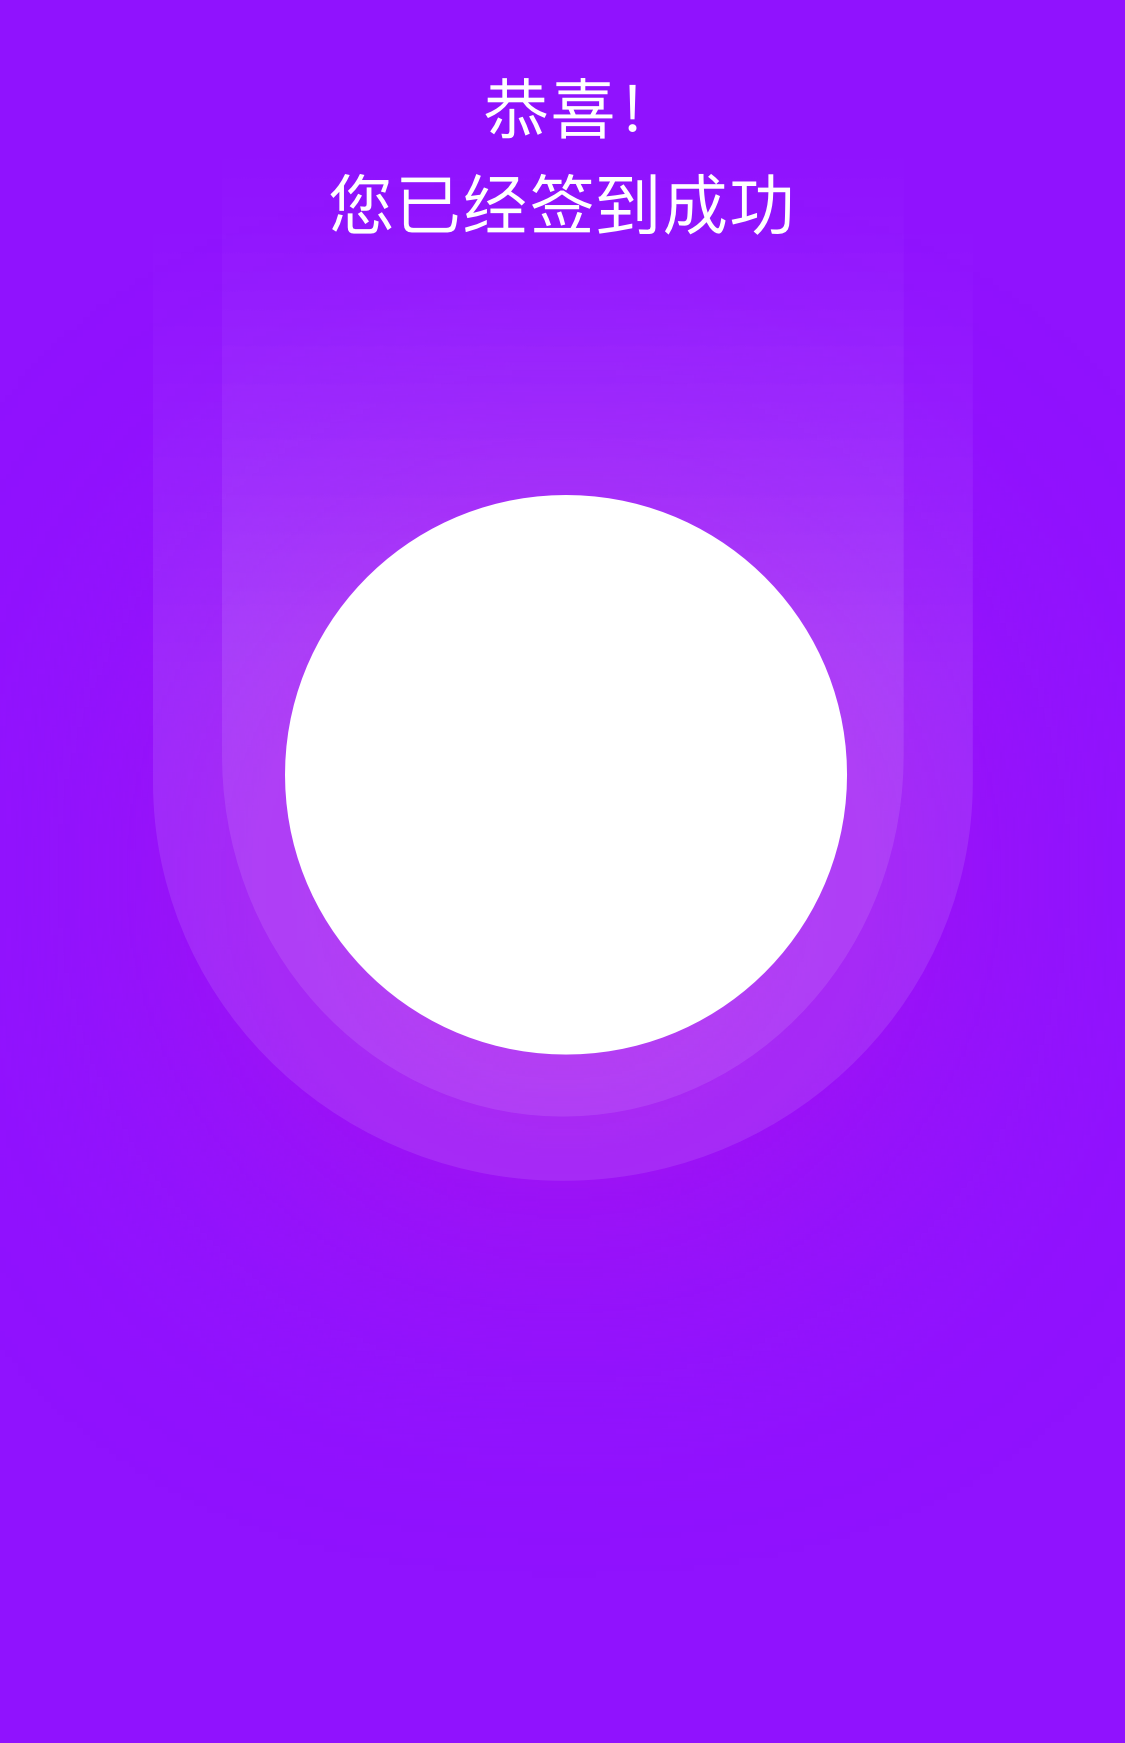
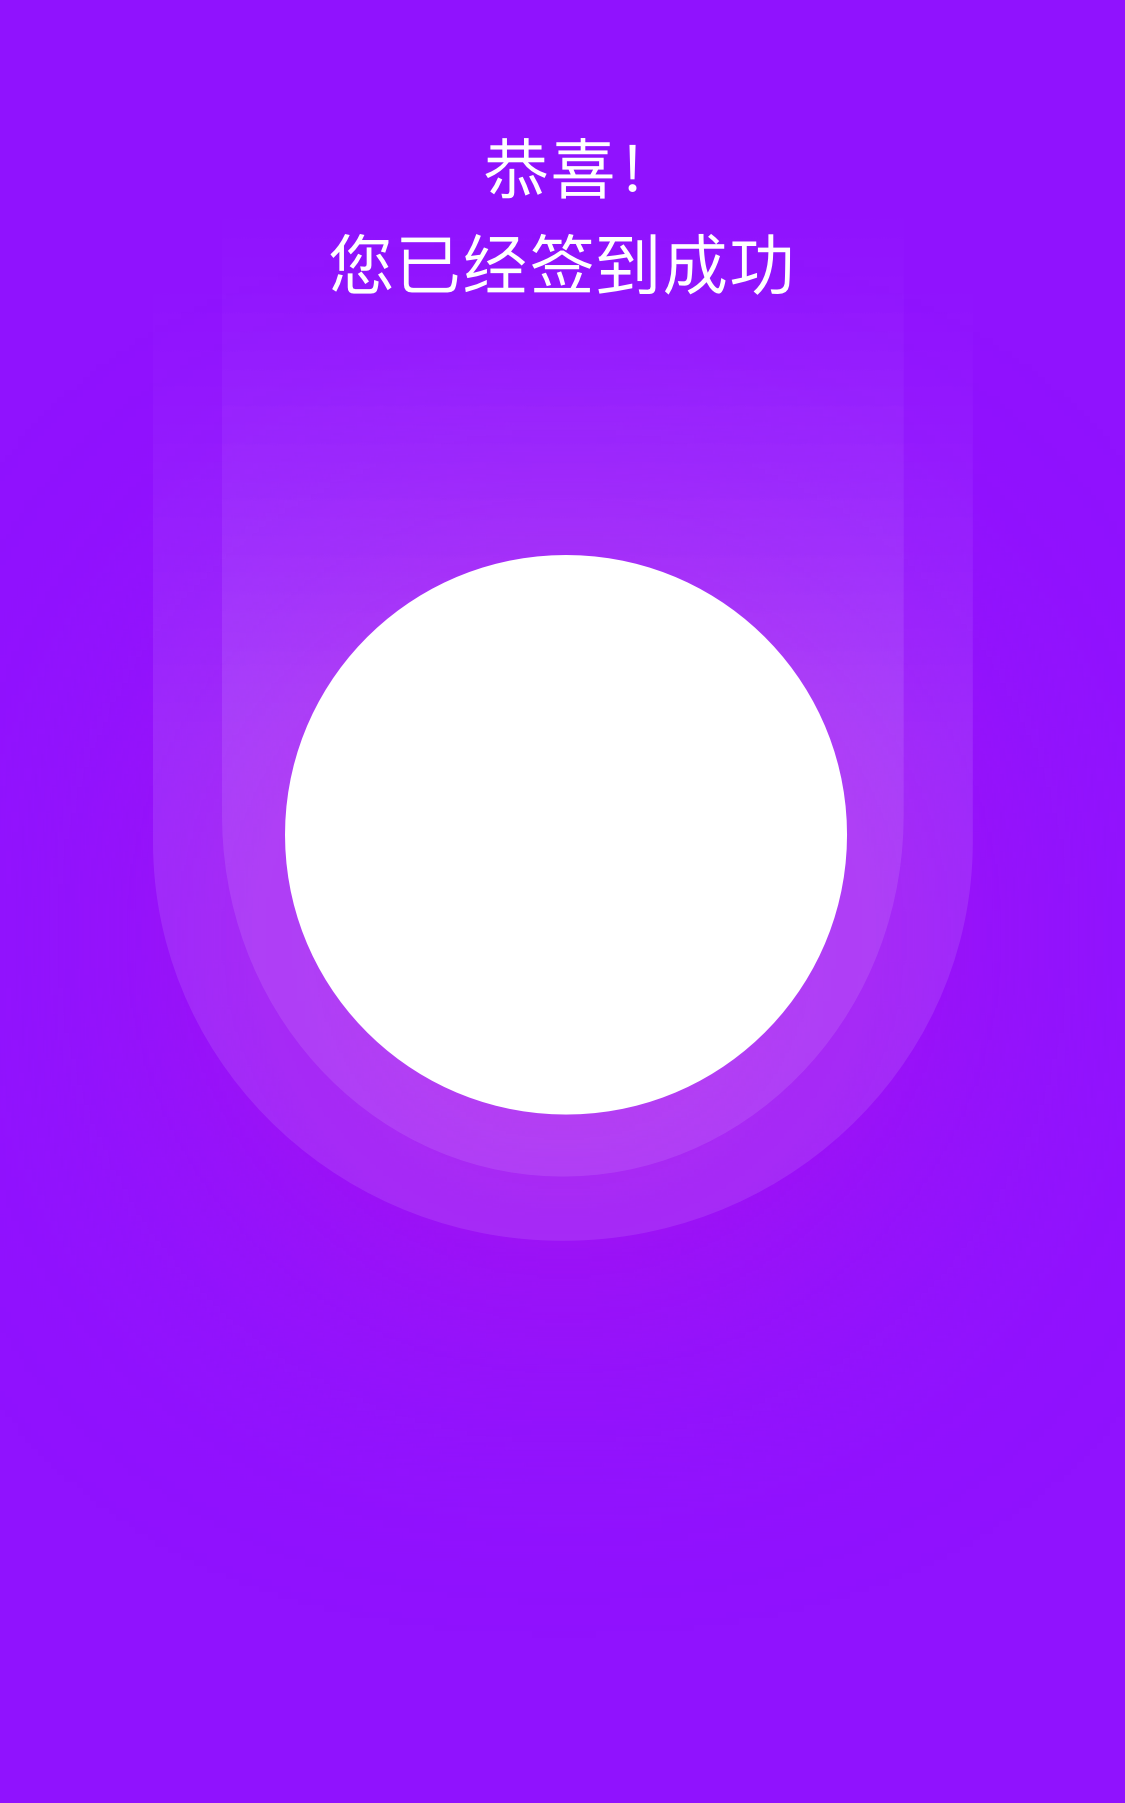
confirm

diff --git a/ion-scanner-v2/src/pages/confirm/confirm.scss b/ion-scanner-v2/src/pages/confirm/confirm.scss
@@ -1,27 +1,29 @@
 .page-confirm {
-    .backImage{
-        background:url(../assets/img/confirm.png) no-repeat;
-      	width:100%;
-		height:581px;  
-    }
-
+    background:#9012fe url(../assets/img/confirm.png) no-repeat 0px 56px;
+    background-size:contain;
+  	width:100%;
 	.timeBox{
-		color:#fff;
+		color:#4a4a4a;
 		width:100%;
 		height:150px;
-		margin:50px auto 0;
+		margin:180px auto 0;
 		text-align:center;
 		font-weight:200;
+		z-index:9;
+		font-family:"微软雅黑";
 		p{
 			margin:0;
+			font-size:10px;
 		}
 		.time{
 			font-size:60px;
+			font-family:"PingFang SC";
+			margin-bottom:4px;
 		}
-		.date{
-			font-size:11px;
-			letter-spacing:1px;
-			font-family:"微软雅黑";
-		}
+	}
+	.completeBtn{
+		background:url(../assets/img/completeButton.png) no-repeat;
+	    background-size:contain;
+	    margin-top:110px;
 	}
 }

diff --git a/ion-scanner-v2/src/pages/scan/scan.scss b/ion-scanner-v2/src/pages/scan/scan.scss
@@ -23,11 +23,13 @@
 		margin:50px auto 0;
 		text-align:center;
 		font-weight:200;
+		z-index:1010;
 		p{
 			margin:0;
 		}
 		.time{
 			font-size:60px;
+			font-family:"PingFang SC";
 		}
 		.date{
 			font-size:11px;
@@ -40,18 +42,20 @@
 	}
 	.camera{
 	   display:block;
-	   margin:0 auto; 
+	   margin:0 auto 30px; 
 	   background:url(../assets/img/camera.png) no-repeat;
 	   background-size:contain;
 	   width:225px ;
-	   height: 225px;
+	   height: 200px;
+	   z-index:1011;
 	}
 	.record{
 		float:right;
 		margin:0 20px 18px 0;
-		// background-size:contain;
 		background:url(../assets/img/record.png) no-repeat;
-	   width: 54px ;
-	   height: 28px;
+	    width: 54px ;
+	    height: 28px;
+	    display:block;
+		background-size:contain;
 	}
 }

diff --git a/ion-scanner-v2/src/pages/confirm/confirm.html b/ion-scanner-v2/src/pages/confirm/confirm.html
@@ -13,14 +13,12 @@
 </ion-header>
 
 
-<ion-content class = "page-confirm">
-  <div class = "backImage">
-<ion-img class="backImage"></ion-img>
-
-  </div>
+<ion-content padding class = "page-confirm">
 	<div class="timeBox">
+    <p>签到时间</p>
 		<p class="time">18:30</p>
-		<p class="date">星期六 2017 .06.18</p>
+    <p>NO 20192</p>
 	</div>
 
+   <button class="completeBtn" ion-button block type="submit" (click)="completeClick()"></button>
 </ion-content>

diff --git a/ion-scanner-v2/src/pages/scan/scan.html b/ion-scanner-v2/src/pages/scan/scan.html
@@ -20,6 +20,5 @@
 
 	<button class="camera" ion-button  (click)="scan()"></button>
 	
-	<!--<ion-img class="record" width="54" height="28" src="assets/img/record.png"></ion-img>-->
 	<button class="record" ion-button  (click)="record()"></button>
 </ion-content>

diff --git a/ion-scanner-v2/src/pages/scan/scan.ts b/ion-scanner-v2/src/pages/scan/scan.ts
@@ -13,7 +13,9 @@ export class ScanPage {
     public platform: Platform,
     public actionsheetCtrl: ActionSheetController,
     public navCtrl : NavController
-  ) { }
+  ) { 
+  
+  }
 
   openMenu() {
     let actionSheet = this.actionsheetCtrl.create({
